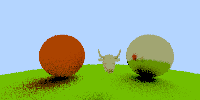
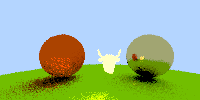
made the bull glow

diff --git a/cmd/main.go b/cmd/main.go
@@ -27,9 +27,9 @@ func main() {
 		fmt.Println(err)
 		os.Exit(1)
 	}
-	model.Shader = &shaders.DiffuseShader{
+	model.Shader = &shaders.EmissiveShader{
 		Color: util.Color{
-			R: 0.8, G: 0.6, B: 0.2}}
+			R: 0.8 * 3, G: 0.6 * 3, B: 0.2 * 3}}
 	fmt.Println("Parsed!")
 	var world surfaces.SurfaceList = []pathcaster.Surface{
 		&surfaces.Background{Color: util.Color{
